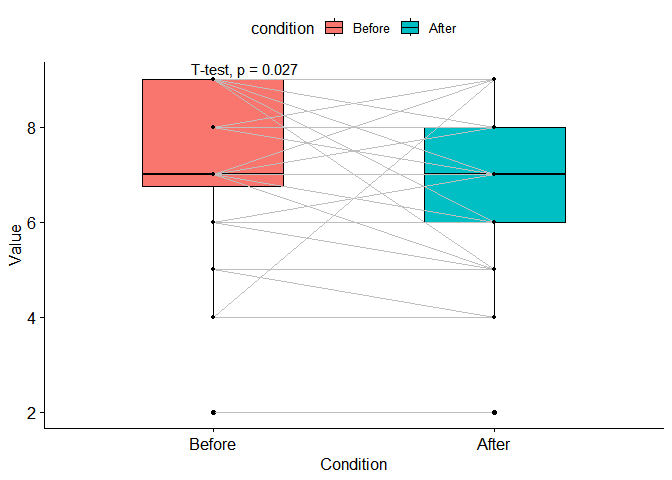
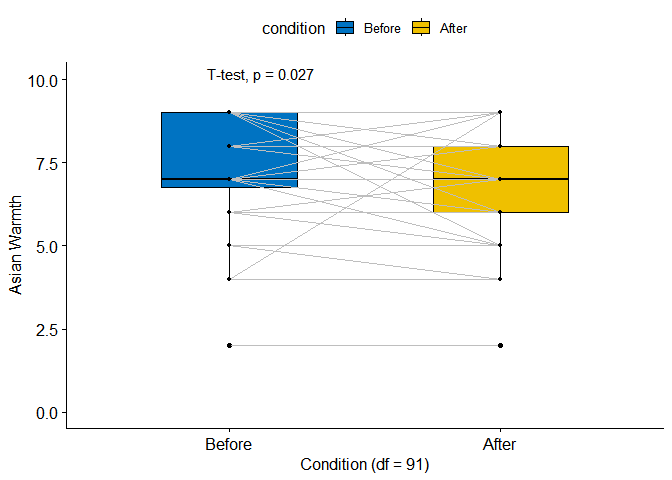
style

diff --git a/po1.md b/po1.md
@@ -40,15 +40,37 @@ t.test(Adf$Q95, Adf$Asian_Warmth, paired = TRUE, alternative = "two.sided")
     ##       0.2282609
 
 ``` r
+Wdf <- Adata %>%
+  filter(Asian == "1" & Conditions == "Outgroup")
+
+t.test(Wdf$Q96, Wdf$White_Warmth, paired = TRUE, alternative = "two.sided")
+```
+
+    ## 
+    ##  Paired t-test
+    ## 
+    ## data:  Wdf$Q96 and Wdf$White_Warmth
+    ## t = -0.4356, df = 88, p-value = 0.6642
+    ## alternative hypothesis: true mean difference is not equal to 0
+    ## 95 percent confidence interval:
+    ##  -0.1874901  0.1200743
+    ## sample estimates:
+    ## mean difference 
+    ##     -0.03370787
+
+\#before and after attitude toward Asians
+
+``` r
 library(ggplot2)
 library(ggpubr)
 Before <-Adf$Q95
 After <-Adf$Asian_Warmth
-d <- data.frame(Before = Before, After = After)
-         ggpaired(d, cond1 = "Before", cond2 = "After",
-         fill = "condition", line.color = "gray", line.size = 0.4,
-         palette = "rainbow") +
- stat_compare_means(vjust = -0.4, method = "t.test", paired = TRUE)
+Adf2 <- data.frame(Before = Before, After = After)
+         ggpaired(Adf2, cond1 = "Before", cond2 = "After",
+         fill = "condition", line.color = "gray", line.size = 0.3,
+         palette = "jco", xlab = "Condition (df = 91)", ylab = "Asian Warmth") + 
+           scale_y_continuous(limit = c(0, 10)) +
+ stat_compare_means(method = "t.test", paired = TRUE)
 ```
 
     ## Warning: `gather_()` was deprecated in tidyr 1.2.0.
@@ -60,6 +82,28 @@ d <- data.frame(Before = Before, After = After)
     ## they will be dropped
 
 ![](po1_files/figure-gfm/unnamed-chunk-2-1.png)<!-- -->
+
+\#before and after attitude toward Whites
+
+``` r
+library(ggplot2)
+library(ggpubr)
+Before <-Wdf$Q96
+After <-Wdf$White_Warmth
+Wdf2 <- data.frame(Before = Before, After = After)
+Wdf2 <- Wdf2[complete.cases(Wdf2),]
+         ggpaired(Wdf2, cond1 = "Before", cond2 = "After",
+         fill = "condition", line.color = "gray", line.size = 0.3,
+         palette = "jco", xlab = "Condition (df = 88)", ylab = "White Warmth") +
+                      scale_y_continuous(limit = c(0, 10)) +
+ stat_compare_means(method = "t.test", paired = TRUE, na.rm = TRUE)
+```
+
+    ## Warning: attributes are not identical across measure variables;
+    ## they will be dropped
+
+![](po1_files/figure-gfm/unnamed-chunk-3-1.png)<!-- --> \#Asian
+attitude–a different style boxplot
 
 ``` r
 library(tidyverse)
@@ -79,8 +123,8 @@ library(rafalib)
 mypar(1,1)
 dat <- list(Before=Adf$Q95, After=Adf$Asian_Warmth)
 dat %>%
-   boxplot(xlab = "Condition",
-           ylab = "Warmth",
+   boxplot(xlab = "Condition (df = 91)",
+           ylab = "Asian Warmth",
            cex = 0)
  dat %>%
    stripchart(
@@ -93,4 +137,53 @@ dat %>%
 mtext(text="p = .027", side = 3, adj = 1, col = 1, cex = 1.25, font = 4)
 ```
 
-![](po1_files/figure-gfm/unnamed-chunk-3-1.png)<!-- -->
+![](po1_files/figure-gfm/unnamed-chunk-4-1.png)<!-- --> \#White
+attitude–a different style boxplot
+
+``` r
+library(tidyverse)
+library(rafalib)
+
+mypar(1,1)
+list(Wdf)
+```
+
+    ## [[1]]
+    ## # A tibble: 90 × 42
+    ##    Q95      Q96     Q97   Q98   Q114    Q130    Q130_…¹ Q135_1  Q135_2   Q135_3 
+    ##    <dbl+lb> <dbl+l> <dbl> <dbl> <dbl+l> <dbl+l> <chr>   <dbl+l> <dbl+lb> <dbl+l>
+    ##  1 6 [60° … 6 [60°… NA    NA    5 [5]   5 [The… ""      2 [A L…  2 [A L… 1 [Ver…
+    ##  2 9 [100°… 4 [40°… NA    NA    4 [4]   6 [The… ""      4 [Qui… NA       3 [Mod…
+    ##  3 9 [100°… 6 [60°… NA    NA    3 [3]   5 [The… ""      2 [A L…  2 [A L… 2 [A L…
+    ##  4 6 [60° … 5 [50°… NA    NA    4 [4]   6 [The… ""      3 [Mod…  2 [A L… 1 [Ver…
+    ##  5 8 [85° … 7 [70°… NA    NA    4 [4]   7 [Som… ""      1 [Ver…  1 [Ver… 1 [Ver…
+    ##  6 9 [100°… 3 [30°… NA    NA    5 [5]   6 [The… ""      2 [A L…  2 [A L… 3 [Mod…
+    ##  7 8 [85° … 7 [70°… NA    NA    3 [3]   6 [The… ""      1 [Ver…  1 [Ver… 1 [Ver…
+    ##  8 8 [85° … 6 [60°… NA    NA    4 [4]   5 [The… ""      2 [A L…  4 [Qui… 1 [Ver…
+    ##  9 6 [60° … 6 [60°… NA    NA    3 [3]   4 [The… ""      3 [Mod…  2 [A L… 1 [Ver…
+    ## 10 6 [60° … 6 [60°… NA    NA    6 [6 =… 5 [The… ""      1 [Ver…  1 [Ver… 1 [Ver…
+    ## # … with 80 more rows, 32 more variables: Q135_4 <dbl+lbl>, Q135_5 <dbl+lbl>,
+    ## #   Q135_6 <dbl+lbl>, Q135_7 <dbl+lbl>, Q135_8 <dbl+lbl>, Q135_9 <dbl+lbl>,
+    ## #   Q135_10 <dbl+lbl>, Q127 <dbl+lbl>, Q128 <dbl+lbl>, condition <dbl+lbl>,
+    ## #   Distressed <dbl>, Upset <dbl>, Guilty <dbl>, Scared <dbl>, Hostile <dbl>,
+    ## #   Irritable <dbl>, Ashamed <dbl>, Nervous <dbl>, Jittery <dbl>, Afriad <dbl>,
+    ## #   NegEmo <dbl>, Expectation <dbl>, White_Warmth <dbl>, Asian_Warmth <dbl>,
+    ## #   Centrality <dbl>, Centrality_meancentered <dbl>, …
+
+``` r
+Wdf2 %>%
+   boxplot(xlab = "Condition (df = 88)",
+           ylab = "White Warmth",
+           cex = 0)
+ Wdf2 %>%
+   stripchart(
+     vertical = TRUE,
+     method = "jitter",
+     pch = 16,
+     add = TRUE,
+     col = 1
+   )
+mtext(text="p = .664", side = 3, adj = 1, col = 1, cex = 1.25, font = 4)
+```
+
+![](po1_files/figure-gfm/unnamed-chunk-5-1.png)<!-- -->
